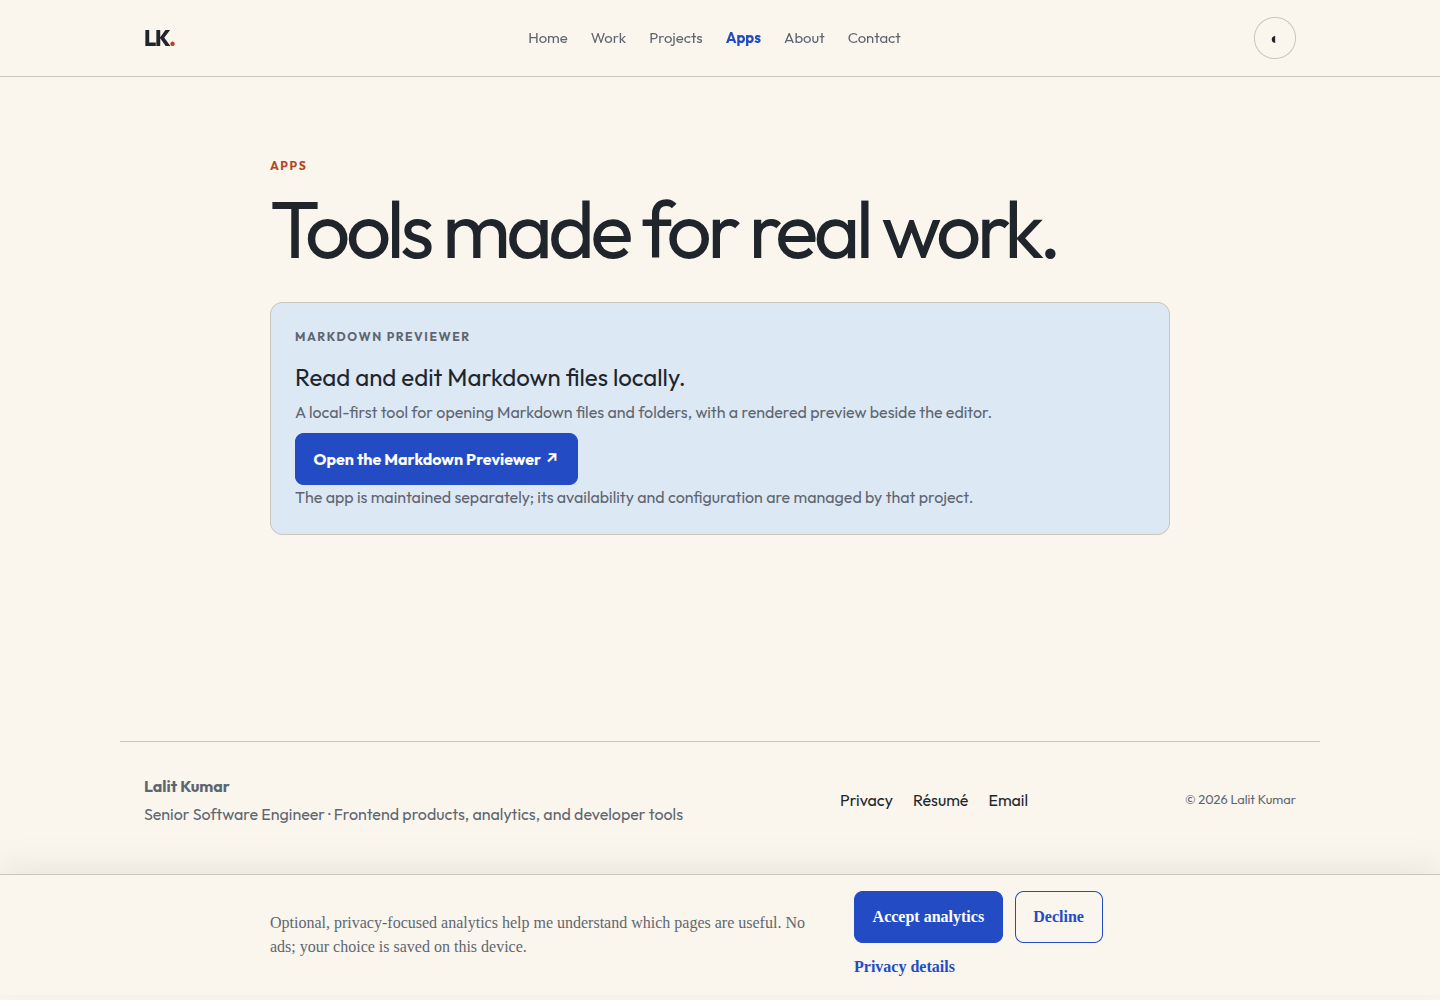
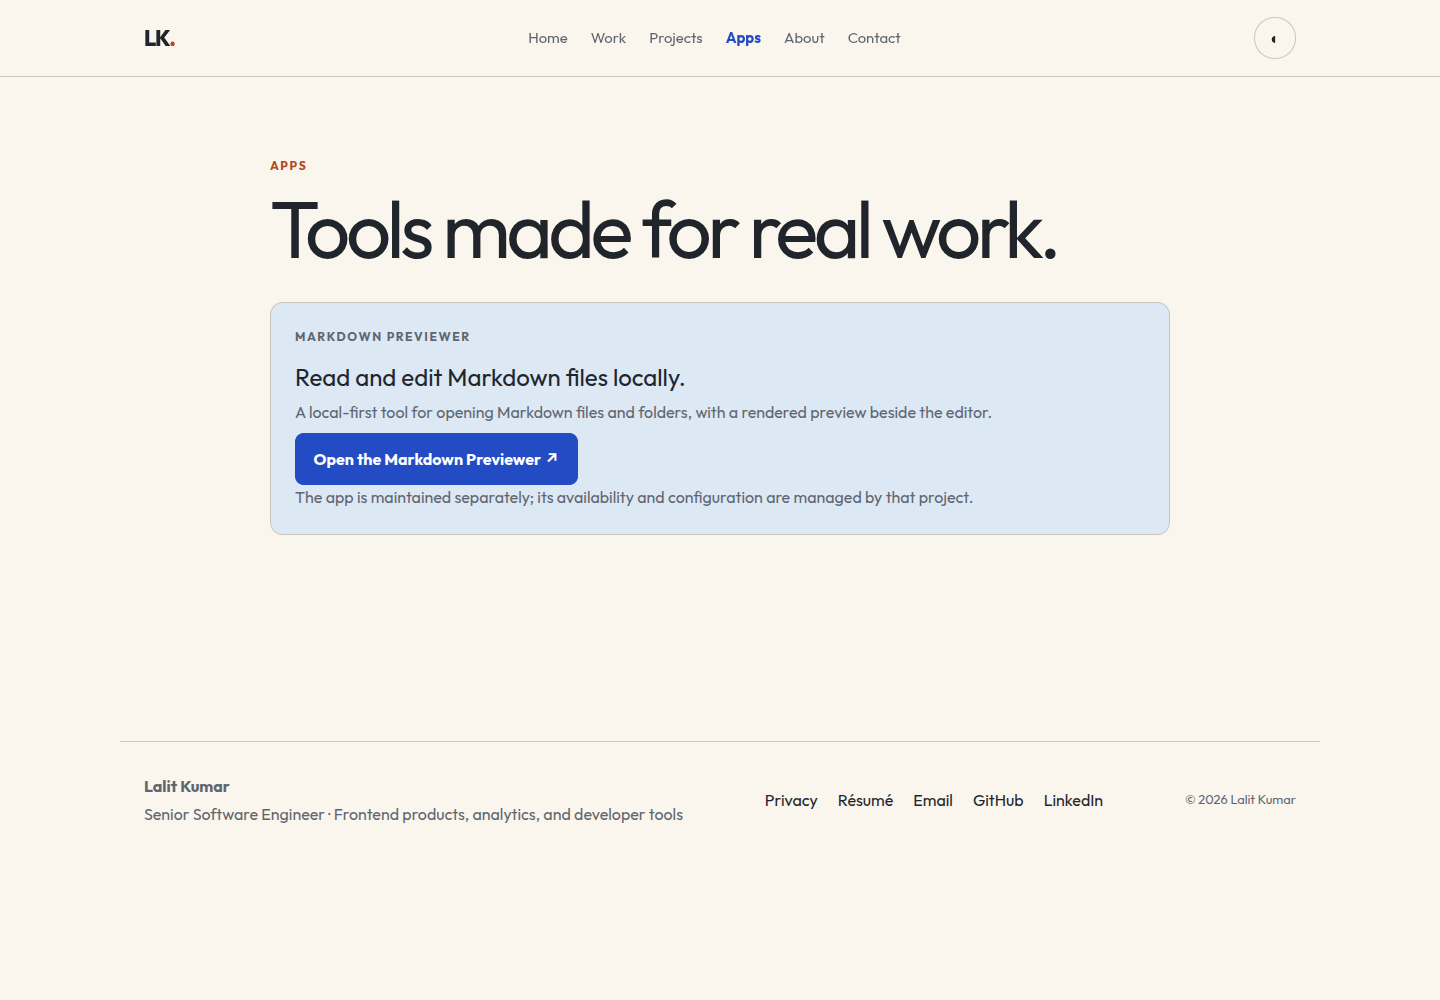
fix: address final portfolio review findings

Changed region(s): [[0.1875, 0.899, 0.5625, 0.961], [0.5938, 0.868, 0.75, 0.992], [0.5312, 0.775, 0.7812, 0.806]]

diff --git a/utils/analytics.ts b/utils/analytics.ts
@@ -33,7 +33,7 @@ function validConsent(value: unknown): value is Consent {
 function analyticsIds() {
   const gtm = process.env.NEXT_PUBLIC_GTM_ID || '';
   const ga4 = process.env.NEXT_PUBLIC_GA4_MEASUREMENT_ID || '';
-  return /^GTM-[A-Z0-9]{7}$/.test(gtm) && /^G-[A-Z0-9]{10}$/.test(ga4) ? { gtm, ga4 } : null;
+  return /^GTM-[A-Z0-9]{7,8}$/.test(gtm) && /^G-[A-Z0-9]{10}$/.test(ga4) ? { gtm, ga4 } : null;
 }
 
 export function normalizePagePath(url: string): string {
@@ -45,6 +45,7 @@ export function normalizePagePath(url: string): string {
 }
 
 export function readConsent(storage: Pick<Storage, 'getItem'>): Consent {
+  if (consent !== 'unknown') return consent;
   try {
     const value = storage.getItem(CONSENT_KEY);
     return value === 'accepted' || value === 'declined' ? value : 'unknown';
@@ -87,8 +88,12 @@ export function setAnalyticsConsent(choice: Consent): void {
   if (typeof window !== 'undefined') {
     const ids = analyticsIds();
     if (ids) window[`ga-disable-${ids.ga4}`] = choice !== 'accepted';
-    if (choice === 'declined') {
-      if (window.dataLayer) window.dataLayer = window.dataLayer.filter(({ event }) => !eventNames.has(String(event)));
+    if (choice !== 'accepted') {
+      if (window.dataLayer) {
+        for (let i = window.dataLayer.length - 1; i >= 0; i--) {
+          if (eventNames.has(String(window.dataLayer[i].event))) window.dataLayer.splice(i, 1);
+        }
+      }
       if (typeof document !== 'undefined') document.getElementById('portfolio-google-tag-manager')?.remove();
       clearAnalyticsCookies();
     }
@@ -98,20 +103,40 @@ export function setAnalyticsConsent(choice: Consent): void {
   }
 }
 
+export function syncConsentFromStorage(key: string | null, value: string | null): Consent | null {
+  if (key !== CONSENT_KEY && key !== null) return null;
+  const next = value === 'accepted' || value === 'declined' ? value : 'unknown';
+  setAnalyticsConsent(next);
+  return next;
+}
+
 export function loadAnalytics(): boolean {
   if (typeof window === 'undefined' || typeof document === 'undefined' || consent !== 'accepted') return false;
   const ids = analyticsIds();
   if (!ids) return false;
   window[`ga-disable-${ids.ga4}`] = false;
-  if (document.getElementById('portfolio-google-tag-manager')) return true;
+  if (window['portfolioGtmInitialized'] || document.getElementById('portfolio-google-tag-manager')) {
+    window['portfolioGtmInitialized'] = true;
+    return true;
+  }
   window.dataLayer = window.dataLayer || [];
   window.dataLayer.push({ 'gtm.start': Date.now(), event: 'gtm.js' });
   const script = document.createElement('script');
   script.id = 'portfolio-google-tag-manager';
   script.async = true;
   script.src = `https://www.googletagmanager.com/gtm.js?id=${ids.gtm}`;
+  script.onerror = () => { window['portfolioGtmInitialized'] = false; };
+  window['portfolioGtmInitialized'] = true;
   document.head.appendChild(script);
   return true;
+}
+
+export function trackPageView(path: string, lastPath: string | null): string | null {
+  const normalized = normalizePagePath(path);
+  if (normalized === lastPath || !trackEvent({ event: 'page_view', page_path: normalized })) return lastPath;
+  const caseMatch = normalized.match(/^\/work\/([^/]+)\/?$/);
+  if (caseMatch) trackEvent({ event: 'case_study_view', case_slug: caseMatch[1] });
+  return normalized;
 }
 
 function sanitizeEvent(value: unknown): AnalyticsEvent | null {

diff --git a/components/AnalyticsConsent.tsx b/components/AnalyticsConsent.tsx
@@ -3,25 +3,24 @@ import { useRouter } from 'next/router';
 import { useCallback, useEffect, useRef, useState } from 'react';
 import {
   loadAnalytics,
-  normalizePagePath,
   readConsent,
   saveConsent,
   setAnalyticsConsent,
-  trackEvent,
+  syncConsentFromStorage,
+  trackPageView,
   type Consent,
 } from '../utils/analytics';
 
 export default function AnalyticsConsent(): React.ReactElement | null {
   const router = useRouter();
   const [choice, setChoice] = useState<Consent>('unknown');
-  const initialViewSent = useRef(false);
+  const lastSentPath = useRef<string | null>(null);
 
   const choose = useCallback((next: Consent) => {
     if (typeof window === 'undefined') return;
     saveConsent({ setItem: (key, value) => window.localStorage.setItem(key, value) }, next);
     setAnalyticsConsent(next);
     setChoice(next);
-    if (next === 'accepted') loadAnalytics();
   }, []);
 
   useEffect(() => {
@@ -37,21 +36,22 @@ export default function AnalyticsConsent(): React.ReactElement | null {
       setChoice(next);
       if (next === 'accepted') loadAnalytics();
     };
+    const onStorage = (event: StorageEvent) => syncConsentFromStorage(event.key, event.newValue);
     window.addEventListener('portfolio-analytics-consent-change', onChoice);
-    return () => window.removeEventListener('portfolio-analytics-consent-change', onChoice);
+    window.addEventListener('storage', onStorage);
+    return () => {
+      window.removeEventListener('portfolio-analytics-consent-change', onChoice);
+      window.removeEventListener('storage', onStorage);
+    };
   }, []);
 
   useEffect(() => {
     const sendPageView = (route: string) => {
-      const path = normalizePagePath(route);
-      if (!trackEvent({ event: 'page_view', page_path: path })) return;
-      initialViewSent.current = true;
-      const caseMatch = path.match(/^\/work\/([^/]+)\/?$/);
-      if (caseMatch) trackEvent({ event: 'case_study_view', case_slug: caseMatch[1] });
+      lastSentPath.current = trackPageView(route, lastSentPath.current);
     };
     const onRouteChange = (route: string) => sendPageView(route);
     router.events.on('routeChangeComplete', onRouteChange);
-    if (router.isReady && choice === 'accepted' && !initialViewSent.current) sendPageView(router.asPath);
+    if (router.isReady && choice === 'accepted') sendPageView(router.asPath);
     return () => router.events.off('routeChangeComplete', onRouteChange);
   }, [choice, router.asPath, router.events, router.isReady]);
 

diff --git a/pages/contact.tsx b/pages/contact.tsx
@@ -32,8 +32,10 @@ export default function ContactPage() {
     setStatus('');
     if (Object.keys(nextErrors).length) return;
 
-    const { NEXT_PUBLIC_EMAILJS_SERVICE_ID, NEXT_PUBLIC_EMAILJS_TEMPLATE_ID, NEXT_PUBLIC_EMAILJS_PUBLIC_KEY } = process.env;
-    if (!NEXT_PUBLIC_EMAILJS_SERVICE_ID || !NEXT_PUBLIC_EMAILJS_TEMPLATE_ID || !NEXT_PUBLIC_EMAILJS_PUBLIC_KEY) {
+    const serviceId = process.env.NEXT_PUBLIC_EMAILJS_SERVICE_ID;
+    const templateId = process.env.NEXT_PUBLIC_EMAILJS_TEMPLATE_ID;
+    const publicKey = process.env.NEXT_PUBLIC_EMAILJS_PUBLIC_KEY;
+    if (!serviceId || !templateId || !publicKey) {
       setStatus('The message form is not configured right now. Please use the email link instead.');
       return;
     }
@@ -44,10 +46,10 @@ export default function ContactPage() {
       const title = form.current.elements.namedItem('title') as HTMLInputElement;
       title.value = values.subject;
       const sent = await submitContactForm(form.current, () => emailjs.sendForm(
-        NEXT_PUBLIC_EMAILJS_SERVICE_ID,
-        NEXT_PUBLIC_EMAILJS_TEMPLATE_ID,
+        serviceId,
+        templateId,
         form.current!,
-        NEXT_PUBLIC_EMAILJS_PUBLIC_KEY,
+        publicKey,
       ));
       setStatus(sent
         ? 'Your message was sent. Thank you.'
@@ -67,6 +69,11 @@ export default function ContactPage() {
         <h1 className="route-title">Have a useful problem to solve?</h1>
         <p className="route-intro">Send a note about the work you have in mind.</p>
         <p><a href={`mailto:${portfolio.contact.email}`} onClick={() => trackEvent({ event: 'contact_click', channel: 'email' })}>Email {portfolio.contact.email}</a></p>
+        <ul className="contact-socials">
+          {portfolio.contact.social.filter(({ platform }) => platform === 'GitHub' || platform === 'LinkedIn').map(({ platform, url }) => (
+            <li key={platform}><a href={url} target="_blank" rel="noreferrer" onClick={() => trackEvent({ event: 'contact_click', channel: platform === 'GitHub' ? 'github' : 'linkedin' })}>{platform}</a></li>
+          ))}
+        </ul>
         <form className="contact-form" ref={form} onSubmit={submit} noValidate>
           <input type="hidden" name="title" defaultValue="" />
           <div className="error-summary" role="alert" aria-live="polite">{Object.values(errors).join('. ')}</div>

diff --git a/pages/privacy.tsx b/pages/privacy.tsx
@@ -1,20 +1,25 @@
 import SiteLayout from '../components/SiteLayout';
 import portfolio from '../data/portfolio.json';
 import { useEffect, useState } from 'react';
-import { loadAnalytics, readConsent, saveConsent, setAnalyticsConsent, trackEvent, type Consent } from '../utils/analytics';
+import { readConsent, saveConsent, setAnalyticsConsent, trackEvent, type Consent } from '../utils/analytics';
 
 export default function PrivacyPage() {
   const [choice, setChoice] = useState<Consent>('unknown');
 
   useEffect(() => {
     setChoice(readConsent({ getItem: (key) => window.localStorage.getItem(key) }));
+    const onChoice = (event: Event) => {
+      const next = (event as CustomEvent<Consent>).detail;
+      if (next === 'accepted' || next === 'declined' || next === 'unknown') setChoice(next);
+    };
+    window.addEventListener('portfolio-analytics-consent-change', onChoice);
+    return () => window.removeEventListener('portfolio-analytics-consent-change', onChoice);
   }, []);
 
   function choose(next: Consent) {
     saveConsent({ setItem: (key, value) => window.localStorage.setItem(key, value) }, next);
     setAnalyticsConsent(next);
     setChoice(next);
-    if (next === 'accepted') loadAnalytics();
   }
 
   return (

diff --git a/components/Footer.tsx b/components/Footer.tsx
@@ -13,6 +13,9 @@ export default function Footer(): React.ReactElement {
         <Link href="/privacy/">Privacy</Link>
         <a href="/Lalit_Kumar_Resume.pdf" onClick={() => trackEvent({ event: 'resume_download' })}>Résumé</a>
         <a href={`mailto:${portfolio.contact.email}`} onClick={() => trackEvent({ event: 'contact_click', channel: 'email' })}>Email</a>
+        {portfolio.contact.social.filter(({ platform }) => platform === 'GitHub' || platform === 'LinkedIn').map(({ platform, url }) => (
+          <a key={platform} href={url} target="_blank" rel="noreferrer" onClick={() => trackEvent({ event: 'contact_click', channel: platform === 'GitHub' ? 'github' : 'linkedin' })}>{platform}</a>
+        ))}
       </nav>
       <small>© {new Date().getFullYear()} Lalit Kumar</small>
     </footer>

diff --git a/styles/globals.css b/styles/globals.css
@@ -157,6 +157,8 @@ button, a { -webkit-tap-highlight-color: transparent; }
 .timeline > li { padding: 0 0 1.5rem 1rem; }
 .timeline h3 { margin: .3rem 0; }
 .contact-form { display: grid; gap: 1rem; max-width: 620px; margin-top: 2rem; }
+.contact-socials { display: flex; gap: 1rem; padding: 0; list-style: none; }
+.contact-socials a { color: var(--cobalt); font-weight: 700; }
 .form-field { display: grid; gap: .4rem; }
 .form-field label { font-weight: 700; }
 .form-field input, .form-field textarea { width: 100%; padding: .8rem; border: 1px solid var(--line); border-radius: .45rem; background: var(--canvas); color: var(--ink); font: inherit; }

diff --git a/docs/review-creative-playground.md b/docs/review-creative-playground.md
@@ -10,7 +10,7 @@ The portfolio keeps the requested tasks visible while making room for a small, c
 - **Read a case:** Work links lead to static case pages organized as Context, Contribution, Decisions, and Outcome.
 - **Launch the app:** Apps links to `/apps/markdown-preview/`. The upstream route and its nested JavaScript/CSS assets returned 200; the app remains a separately maintained service.
 - **Get the résumé:** the résumé link resolves to `public/Lalit_Kumar_Resume.pdf` (HTTP 200, `application/pdf`). The About page discloses that the PDF summary predates the current 8+ years copy.
-- **Contact:** the form exposes required name, email, subject, and message fields and inline validation; absent EmailJS configuration leaves entries intact and offers the email fallback. A mocked rejected send also retains the entered values. No real email was sent.
+- **Contact:** the form exposes required name, email, subject, and message fields and inline validation, plus the existing GitHub and LinkedIn destinations; absent EmailJS configuration leaves entries intact and offers the email fallback. A mocked rejected send also retains the entered values. No real email was sent.
 
 ## Browser and route checks
 
@@ -32,13 +32,19 @@ The first Lighthouse snapshot found two accessibility defects: the demo eyebrow 
 
 The stylesheet includes a `prefers-reduced-motion: reduce` rule; the demo and navigation do not require animation. This Chrome DevTools session did not provide an OS reduced-motion override, so reduced-motion behavior was source-inspected rather than browser-emulated.
 
-Consent checks on the existing browser verified no Google script/request before choice or after acceptance/decline while measurement IDs were absent; choices and the blocked-storage in-memory fallback were checked in Task 4. There are no live GTM/GA IDs, so delivery and withdrawal after a real tag load were not exercised against Google. Automatic collection and sanitized path guidance are documented in `docs/analytics-setup.md`; upstream app analytics are outside this portfolio.
+Consent checks on the existing browser verified no Google script/request before choice or after acceptance/decline while measurement IDs were absent; choices and the blocked-storage in-memory fallback were checked in Task 4. The Privacy status now follows banner choices and cross-tab storage changes. There are no live GTM/GA IDs, so delivery and withdrawal after a real tag load were not exercised against Google. Automatic collection and explicit sanitized page-referrer guidance are documented in `docs/analytics-setup.md`; upstream app analytics are outside this portfolio.
 
 ## Validation and limits
 
-- `yarn test`: 13/13 pass, including visible brand-name and demo contrast-selector regressions.
+- `yarn test`: 22/22 pass, including accessibility and final-review lifecycle/configuration regressions.
 - `yarn type-check`: pass.
 - `yarn lint`: pass with existing warnings in legacy `components/Contact.tsx` (`console`) and Next.js `next lint` deprecation.
-- `yarn build`: pass; 27 static pages generated.
+- `yarn build`: pass; 27 static pages generated. A separate build with synthetic EmailJS placeholders confirmed the direct public environment-variable references are inlined into the Contact client bundle; no real values were used and no message was sent.
 - `git diff --check`: pass before this commit.
 - EmailJS live delivery is unverified because no EmailJS configuration is present. No Google measurement IDs or container access were supplied. Nothing was deployed.
+
+## Final review follow-up
+
+The independent branch review found and prompted fixes for build-time EmailJS configuration access, seven/eight-character GTM IDs, dataLayer identity and duplicate loader protection after withdrawal, missing page/case views on re-acceptance, cross-tab consent synchronization, stale Privacy status, unsanitized default referrers in setup guidance, and missing GitHub/LinkedIn links. Regression tests cover these paths; a build using synthetic EmailJS values confirmed Next.js inlined direct public environment references into the Contact bundle. No real email was sent and no live Google tag was loaded.
+
+Deferred minor polish: the About page does not yet use the existing portrait; the consent banner remains outside the Outfit font wrapper. Neither blocks the requested common tasks or consent flow.

diff --git a/docs/analytics-setup.md b/docs/analytics-setup.md
@@ -6,12 +6,12 @@ The portfolio sends nothing to Google until the visitor accepts analytics. There
 
 Set these public build-time variables only when a real container and property are ready:
 
-- `NEXT_PUBLIC_GTM_ID`: a Google Tag Manager ID matching `GTM-` followed by seven uppercase letters or digits.
+- `NEXT_PUBLIC_GTM_ID`: a Google Tag Manager ID matching `GTM-` followed by seven or eight uppercase letters or digits.
 - `NEXT_PUBLIC_GA4_MEASUREMENT_ID`: a GA4 measurement ID matching `G-` followed by ten uppercase letters or digits.
 
 Both values are required. The portfolio validates their formats, injects one GTM script after acceptance, and queues only the allowlisted events in `utils/analytics.ts`.
 
-In GTM, create a GA4 configuration/event setup for the custom `page_view` event and the portfolio event names (`case_study_view`, `project_open`, `resume_download`, `contact_click`, `app_launch`). Use the supplied `page_path` as the route. Construct `page_location` from the canonical site origin plus that path; do not forward query strings, fragments, email addresses, or arbitrary link parameters. Leave `page_referrer` unset or reduce it to the site origin.
+In GTM, create a GA4 configuration/event setup for the custom `page_view` event and the portfolio event names (`case_study_view`, `project_open`, `resume_download`, `contact_click`, `app_launch`). Use the supplied `page_path` as the route. Construct `page_location` from the canonical site origin plus that path; do not forward query strings, fragments, email addresses, or arbitrary link parameters. Explicitly set `page_referrer` to the canonical site origin (or an empty value); do not leave it unset, because the default may use the browser referrer including its query string.
 
 Disable GA4 automatic page views, enhanced measurement page views, outbound-click tracking, and other automatic collection that could bypass the allowlist. Do not configure advertising tags or advertising consent. The app demo does not emit a demo event; `app_launch` records only the explicit launch link. Actual first/repeat use inside the separately hosted Markdown Previewer requires separate upstream instrumentation and consent work.
 
